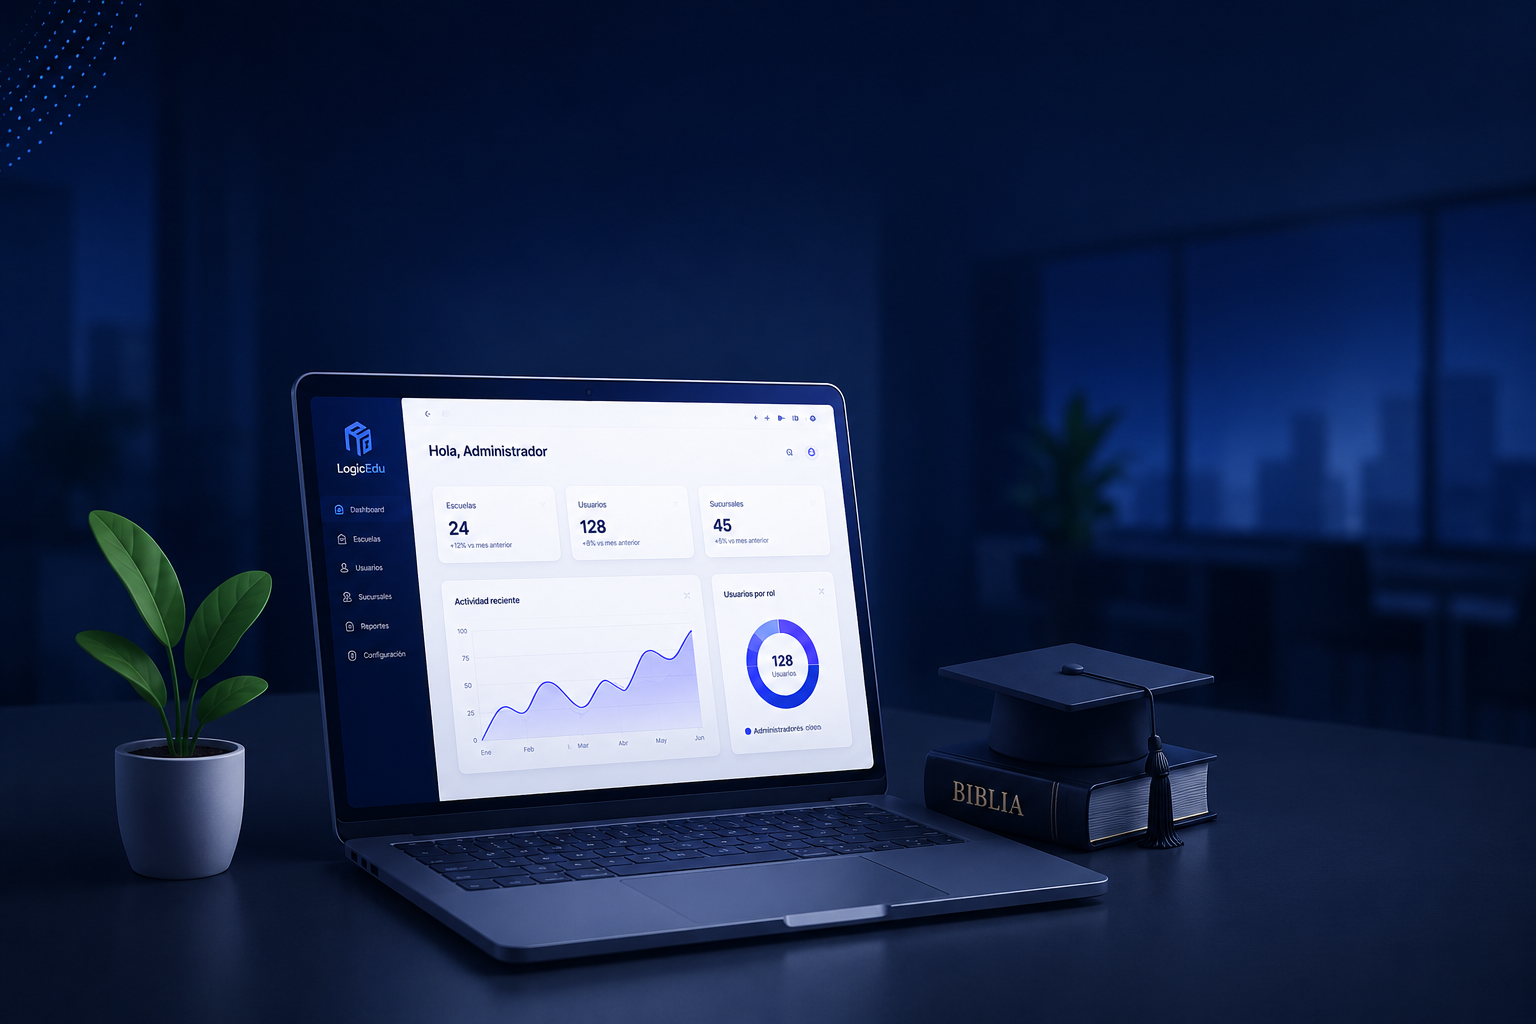
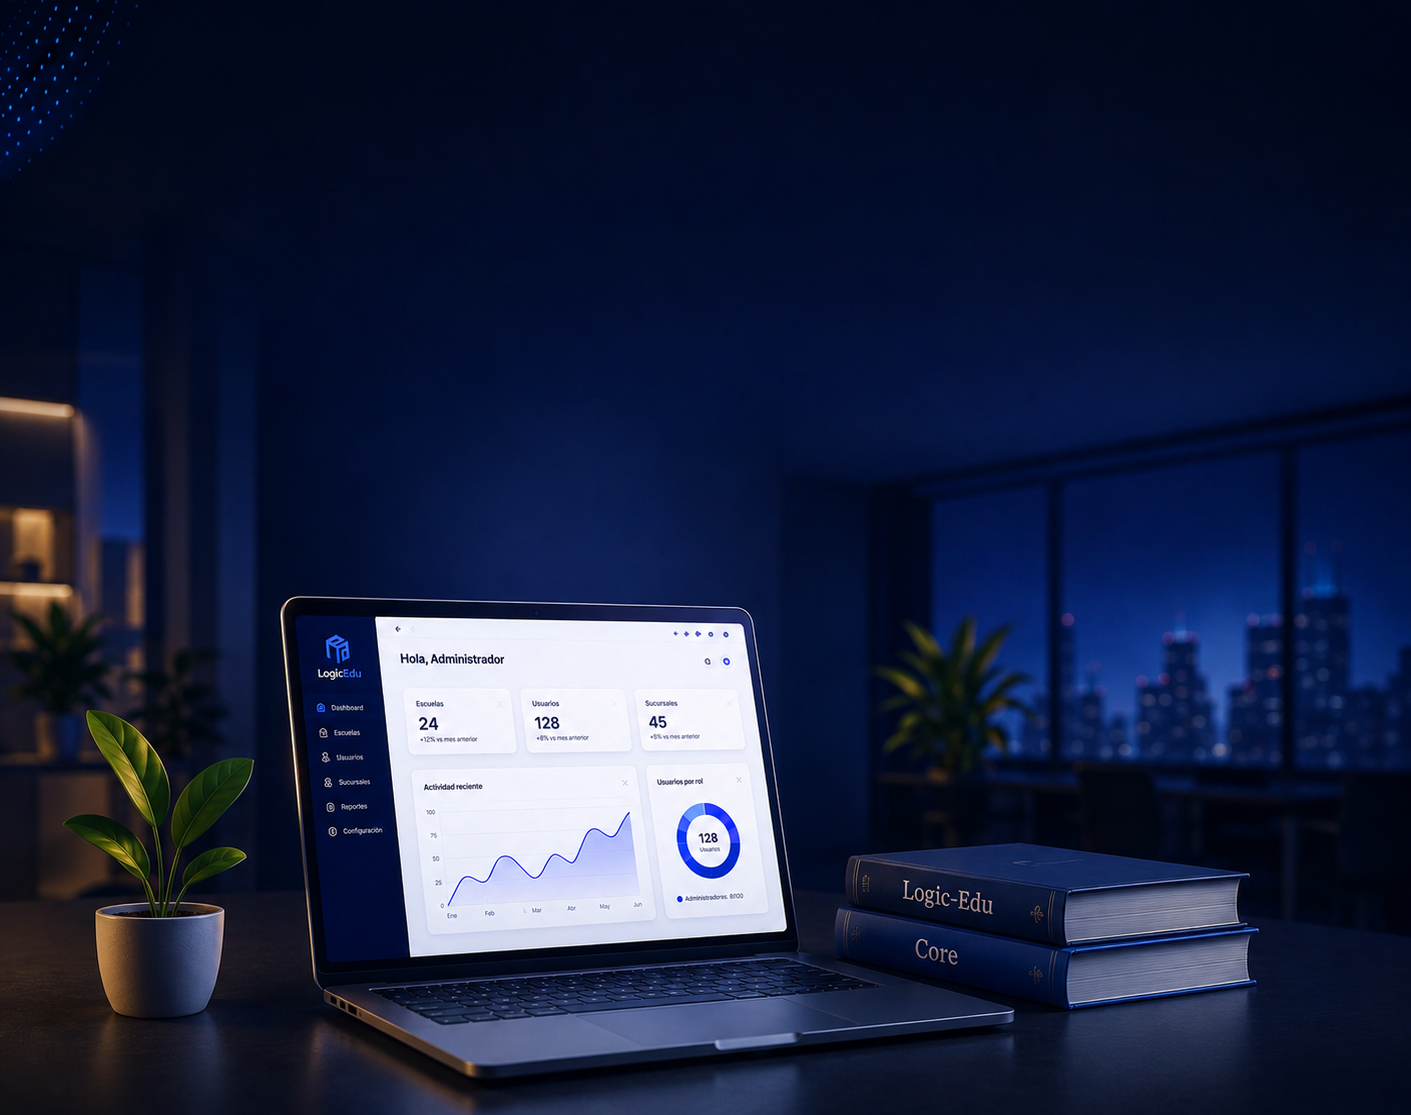
style(login): premium Material form fields — taller inputs, soft borders, glow focus, custom checkbox
- 52px input height, 12px border-radius, subtle gray-blue borders
- Soft violet glow on focus via box-shadow
- Prefix/suffix icons with refined colors
- Custom checkbox with rounded corners and brand color
- Hover effects on password toggle icon
- Fix hero subtitle test to match current text

diff --git a/src/app/features/auth/login.scss b/src/app/features/auth/login.scss
@@ -15,13 +15,13 @@
 }
 
 .login-left {
-  width: 60%;
+  width: 65%;
   position: relative;
   overflow: hidden;
 }
 
 .login-right {
-  width: 40%;
+  width: 35%;
   display: flex;
   align-items: center;
   justify-content: center;
@@ -34,14 +34,16 @@
 .hero-overlay {
   width: 100%;
   height: 100%;
+
   display: flex;
   flex-direction: column;
-  background: linear-gradient(
-      180deg,
-      rgba(5, 10, 40, 0.55) 0%,
-      rgba(3, 8, 30, 0.75) 100%
-    ),
-    url('/images/auth/login-background.webp') center / cover no-repeat;
+  justify-content: center;
+
+  background-image: url('/images/auth/login-background_biblia.webp');
+
+  background-repeat: no-repeat;
+  background-position: 10% center;
+  background-size: cover;
 }
 
 /* Branding */
@@ -49,7 +51,7 @@
   display: flex;
   align-items: center;
   gap: 0.5rem;
-  padding: 2rem 2.5rem;
+  padding: 3rem 8rem;
   color: #ffffff;
   font-size: 1.5rem;
   font-weight: 700;
@@ -78,9 +80,9 @@
   flex: 1;
   display: flex;
   flex-direction: column;
-  justify-content: center;
-  padding: 0 2.5rem;
-  padding-bottom: 8rem;
+  justify-content: flex-start;
+  padding: 2rem 8rem;
+  transform: translateY(-25%);
   animation: fadeSlideUp 0.6s ease-out 0.2s both;
 }
 
@@ -92,11 +94,28 @@
   line-height: 1.2;
 }
 
+.brand {
+  font-weight: 800;
+
+  background: linear-gradient(
+    135deg,
+    #93c5fd 0%,
+    #60a5fa 25%,
+    #3b82f6 50%,
+    #2563eb 75%,
+    #22d3ee 100%
+  );
+
+  -webkit-background-clip: text;
+  -webkit-text-fill-color: transparent;
+  background-clip: text;
+}
+
 .hero-subtitle {
   color: rgba(255, 255, 255, 0.8);
   font-size: 1rem;
   line-height: 1.6;
-  max-width: 80%;
+  max-width: 65%;
   margin: 0;
 }
 
@@ -156,11 +175,116 @@ form {
   gap: 1rem;
 }
 
+/* ---- Premium Material Form Field Overrides ---- */
+
 mat-form-field {
   width: 100%;
+
+  // Remove default Material density — make inputs taller
+  --mat-form-field-container-height: 52px;
+  --mat-form-field-container-vertical-padding: 14px;
+  --mdc-outlined-text-field-container-shape: 12px;
+  --mdc-outlined-text-field-outline-color: #d1d5db;
+  --mdc-outlined-text-field-hover-outline-color: #9ca3af;
+  --mdc-outlined-text-field-focus-outline-color: #4f46e5;
+  --mdc-outlined-text-field-label-text-color: #9ca3af;
+  --mdc-outlined-text-field-hover-label-text-color: #6b7280;
+  --mdc-outlined-text-field-focus-label-text-color: #4f46e5;
+  --mdc-outlined-text-field-input-text-color: #111827;
+  --mdc-outlined-text-field-input-text-placeholder-color: #d1d5db;
+  --mdc-outlined-text-field-disabled-outline-color: #e5e7eb;
+  --mdc-outlined-text-field-disabled-input-text-color: #9ca3af;
+
+  // Subtler border
+  ::ng-deep .mdc-notched-outline__leading,
+  ::ng-deep .mdc-notched-outline__notch,
+  ::ng-deep .mdc-notched-outline__trailing {
+    border-width: 1.5px !important;
+  }
+
+  // Soft glow on focus — box-shadow on the wrapper
+  &:focus-within {
+    ::ng-deep .mat-mdc-text-field-wrapper {
+      box-shadow: 0 0 0 3px rgba(79, 70, 229, 0.1);
+      border-radius: 12px;
+    }
+  }
+
+  // Gentle transition
+  ::ng-deep .mat-mdc-text-field-wrapper {
+    transition: box-shadow 0.2s ease;
+  }
+
+  // Input font — clean and readable
+  ::ng-deep .mat-mdc-input-element {
+    font-size: 0.95rem;
+    letter-spacing: 0.01em;
+    &::placeholder {
+      color: #cbd5e1;
+      font-weight: 300;
+    }
+  }
+
+  // Floating label — softer color
+  ::ng-deep .mdc-floating-label {
+    font-size: 0.9rem;
+    font-weight: 400;
+  }
+
+  // Prefix icon — subtle circle background
+  ::ng-deep .mat-mdc-form-field-icon-prefix,
+  ::ng-deep [matPrefix] {
+    padding: 6px 0 6px 4px;
+
+    mat-icon,
+    .mat-icon {
+      color: #6b7280;
+      font-size: 20px;
+      width: 20px;
+      height: 20px;
+    }
+  }
+
+  // Suffix icon — same treatment
+  ::ng-deep .mat-mdc-form-field-icon-suffix {
+    mat-icon {
+      color: #9ca3af;
+      transition: color 0.15s ease;
+
+      &:hover {
+        color: #4f46e5;
+      }
+    }
+  }
+
+  // Error state
+  &.mat-form-field-invalid {
+    --mdc-outlined-text-field-outline-color: #dc2626;
+    --mdc-outlined-text-field-focus-outline-color: #dc2626;
+
+    ::ng-deep .mdc-floating-label {
+      color: #dc2626 !important;
+    }
+  }
 }
 
-/* Form options row (checkbox + forgot link) */
+// Error text — compact, no Material default bulky style
+::ng-deep .mat-mdc-form-field-error {
+  font-size: 0.8rem;
+  margin-top: 2px;
+  color: #dc2626;
+}
+
+/* ---- Password Toggle Button ---- */
+.password-toggle {
+  ::ng-deep .mat-mdc-icon-button {
+    width: 36px;
+    height: 36px;
+    line-height: 36px;
+  }
+}
+
+/* ---- Form Options Row ---- */
 .form-options {
   display: flex;
   align-items: center;
@@ -168,13 +292,46 @@ mat-form-field {
   margin-top: -0.25rem;
 }
 
+// Premium checkbox — override Material default
+::ng-deep .form-options mat-checkbox {
+  --mdc-checkbox-selected-focus-icon-color: #4f46e5;
+  --mdc-checkbox-selected-hover-icon-color: #4f46e5;
+  --mdc-checkbox-selected-icon-color: #4f46e5;
+  --mdc-checkbox-selected-pressed-icon-color: #4f46e5;
+  --mdc-checkbox-unselected-focus-icon-color: #d1d5db;
+  --mdc-checkbox-unselected-hover-icon-color: #9ca3af;
+  --mdc-checkbox-disabled-selected-icon-color: #d1d5db;
+  --mdc-checkbox-disabled-unselected-icon-color: #e5e7eb;
+
+  .mdc-checkbox__background {
+    border-radius: 5px !important;
+    border-color: #d1d5db !important;
+    border-width: 1.5px !important;
+    width: 18px;
+    height: 18px;
+  }
+
+  .mdc-checkbox__checkmark {
+    color: #ffffff;
+  }
+
+  .mdc-label {
+    color: #6b7280;
+    font-size: 0.875rem;
+    font-weight: 400;
+  }
+}
+
 .forgot-link {
   color: #4f46e5;
   font-size: 0.875rem;
   text-decoration: none;
+  font-weight: 500;
+  transition: color 0.15s ease;
 
   &:hover {
     text-decoration: underline;
+    color: #4338ca;
   }
 }
 

diff --git a/src/app/features/auth/login.html b/src/app/features/auth/login.html
@@ -7,10 +7,13 @@
         <span class="brand-dot"></span>
       </div>
       <div class="hero-content">
-        <h1 class="hero-title">Bienvenido a LogicEdu</h1>
+        <h1 class="hero-title">
+          <span>Bienvenido de nuevo a<br></span>
+          <span class="brand">LogicEdu—Web</span>
+        </h1>
         <p class="hero-subtitle">
-          Gestiona escuelas, usuarios, sedes, estructuras académicas y procesos educativos desde una
-          única plataforma.
+          Plataforma integral para la gestión de escuelas y procesos educativos
+          desde una única plataforma.
         </p>
       </div>
     </div>
@@ -38,7 +41,7 @@
         </mat-form-field>
 
         <mat-form-field appearance="outline">
-          <mat-label>Contraseña</mat-label>
+          <mat-label>Ingresa tu contraseña</mat-label>
           <mat-icon matPrefix>lock</mat-icon>
           <input
             matInput

diff --git a/src/app/features/auth/login.spec.ts b/src/app/features/auth/login.spec.ts
@@ -424,6 +424,6 @@ describe('LoginComponent', () => {
 
     const subtitle = fixture.nativeElement.querySelector('.hero-subtitle');
     expect(subtitle).toBeTruthy();
-    expect(subtitle.textContent).toContain('Gestiona escuelas');
+    expect(subtitle.textContent).toContain('Plataforma integral');
   });
 });
